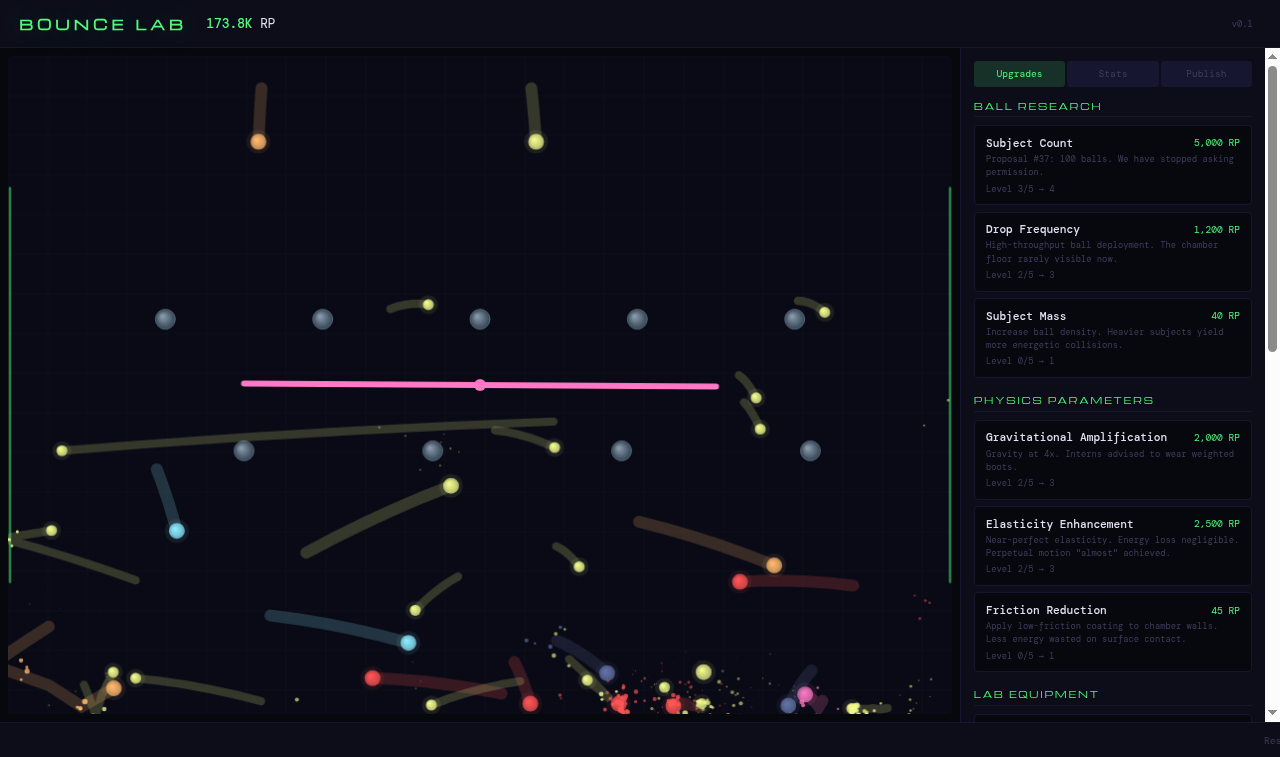
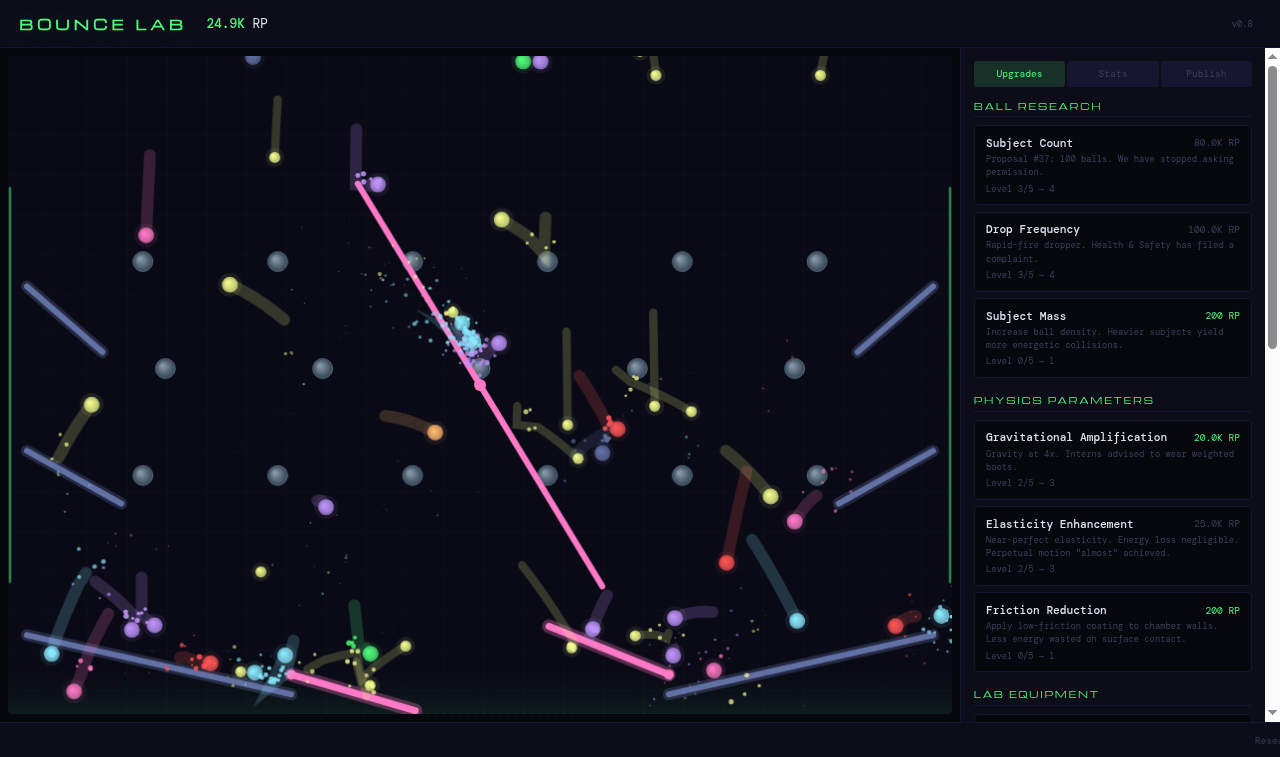
bump version to v0.8, update screenshot

diff --git a/bounce-lab.html b/bounce-lab.html
@@ -384,7 +384,7 @@ body {
     <h1>BOUNCE LAB</h1>
     <div class="rp-display"><span id="rp-count">0</span> RP</div>
   </div>
-  <div class="version" id="version-btn">v0.7</div>
+  <div class="version" id="version-btn">v0.8</div>
 </div>
 
 <div class="main">
